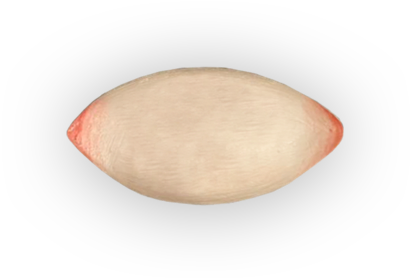
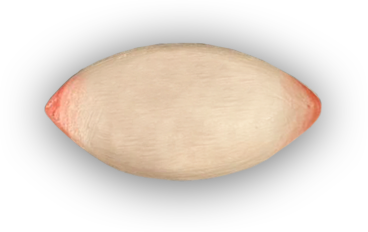
fixed eye tracking

Changed region(s): [[0.0897, 0.1207, 0.8967, 0.875]]

diff --git a/index.html b/index.html
@@ -18,63 +18,69 @@
 			if(document.querySelector('canvas')){
 				clearInterval(wait);
 				document.querySelector('canvas').addEventListener('touchmove',initiateInteractionMobile);
+				setTimeout(() => {
+					document.querySelectorAll('.fade')[0].classList.add('in');
+					document.querySelectorAll('.fade')[1].classList.add('in');
+					document.querySelectorAll('.fade')[2].classList.add('in');
+					document.querySelectorAll('.fade')[3].classList.add('in');
+				}, 1000);
 			}
 		}, 100);
 
 		function initiateInteraction(e){
-			console.log(e);
 			const xoffset = e.x /window.innerWidth * 100;
 			const yoffset = e.y /window.innerHeight * 100;
-			const minLeft = 32;
-			const maxLeft = 64;
-			const maxTop= 18;
-			const minTop= 3;
-			if((xoffset * maxLeft )/100 + minLeft < maxLeft){
-				document.querySelector('.pupil1').style.left = ((xoffset * maxLeft )/100 + minLeft) + '%';
-				document.querySelector('.pupil2').style.left = ((xoffset * maxLeft )/100 + minLeft) + '%';
-				// document.querySelector('.pupil').style.left = (xoffset * maxLeft )/100 + '%';
-			}
-			if((yoffset * maxTop )/100 + minTop < maxTop){
-				document.querySelector('.pupil1').style.top = ((yoffset * maxTop )/100 + minTop) + '%';
-				document.querySelector('.pupil2').style.top = ((yoffset * maxTop )/100 + minTop) + '%';
-			}
-
-			if(yoffset < 50){
-				document.querySelector('.raw-overlay').style.opacity =  1 - (yoffset/50) ;
-			}else{
-				document.querySelector('.raw-overlay').style.opacity = 0
-			}
+			makeInteraction(xoffset,yoffset)
 		}
 		function initiateInteractionMobile(e){
-			console.log(e);
 			const xoffset = e.touches[0].clientX /window.innerWidth * 100;
 			const yoffset = e.touches[0].clientY/window.innerHeight * 100;
-			const minLeft = 32;
-			const maxLeft = 64;
+			makeInteraction(xoffset,yoffset)
+		
+		}
+		function makeInteraction(X,Y){
+			const minLeft = 24;
+			const maxLeft = 50;
 			const maxTop= 18;
+			let finalX =  X;
+			let finalY = Y
+			if(Y > 64){
+				finalY = 64
+			}
+			if(Y < 36){
+				finalY = 36
+			}
+			if(X > 88){
+				finalX = 88
+			}
 			const minTop= 3;
-			if((xoffset * maxLeft )/100 + minLeft < maxLeft){
-				document.querySelector('.pupil1').style.left = ((xoffset * maxLeft )/100 + minLeft) + '%';
-				document.querySelector('.pupil2').style.left = ((xoffset * maxLeft )/100 + minLeft) + '%';
-				// document.querySelector('.pupil').style.left = (xoffset * maxLeft )/100 + '%';
+			document.querySelector('.pupil1').style.transform = "translate(" + finalX + "%," + (finalY - 36) + "%)";
+			document.querySelector('.pupil2').style.transform = "translate(" + finalX + "%," + (finalY - 36) + "%)";
+			// if((X * maxLeft )/100 + minLeft < maxLeft){
+			// 	document.querySelector('.pupil1').style.left = ((X * maxLeft )/100 + minLeft) + '%';
+			// 	document.querySelector('.pupil2').style.left = ((X * maxLeft )/100 + minLeft) + '%';
+			// 	// document.querySelector('.pupil').style.left = (xoffset * maxLeft )/100 + '%';
+			// }
+			// if((Y * maxTop )/100 + minTop < maxTop){
+			// 	document.querySelector('.pupil1').style.top = ((Y * maxTop )/100 + minTop) + '%';
+			// 	document.querySelector('.pupil2').style.top = ((Y * maxTop )/100 + minTop) + '%';
+			// }
+			if(Y < 5){
+				document.querySelector('.raw-overlay').style.opacity =  1 
 			}
-			if((yoffset * maxTop )/100 + minTop < maxTop){
-				document.querySelector('.pupil1').style.top = ((yoffset * maxTop )/100 + minTop) + '%';
-				document.querySelector('.pupil2').style.top = ((yoffset * maxTop )/100 + minTop) + '%';
-			}
-
-			if(yoffset < 50){
-				document.querySelector('.raw-overlay').style.opacity =  1 - (yoffset/50) ;
+			else if(Y < 50 & Y > 5){
+				document.querySelector('.raw-overlay').style.opacity =  1 - (Y/50) ;
 			}else{
 				document.querySelector('.raw-overlay').style.opacity = 0
 			}
 		}
 	</script>
 	<body>
-		<div class="rm-logo">
+		<div class="rm-footer-layer"></div>
+		<div class="rm-logo fade">
 			<img src="./assets/logo.png" alt="">
 		</div>
-		<div class="rm-home-navigation">
+		<div class="rm-home-navigation fade">
 			<ul class="linklist red">
 				<li class="linklist-item">
 					<a href="./about.html">
@@ -118,15 +124,15 @@
 				</li>
 			</ul>
 		</div>
-		<div class="raw-overlay"></div>
-		<div class="eyeballs">
+		<div class="raw-overlay fade"></div>
+		<div class="eyeballs fade">
 			<div class="lefteye">
 				<img src="./assets/Eye ball_2x.png" class="pupil1" alt="" srcset="">
-				<img src="./assets/eye-left.png" alt="" srcset="">
+				<img src="./assets/eye-right.png" alt="" srcset="">
 			</div>
 			<div class="righteye">
 				<img src="./assets/Eye ball_2x.png" class="pupil2" alt="" srcset="">
-				<img src="./assets/eye-right.png" alt="" srcset="">
+				<img src="./assets/eye-left.png" alt="" srcset="">
 			</div>
 		</div>
 		<script type="module">
@@ -156,7 +162,7 @@
 				camera = new THREE.PerspectiveCamera(45, window.innerWidth / window.innerHeight, .1, 2000 );
 				camera.position.z = .1;
 				scene = new THREE.Scene();
-				scene.background = new THREE.Color( 0xa0a0a0 );;
+				scene.background = new THREE.Color( 0x9eadba);;
 
 				// add light
 				const hlight = new THREE.AmbientLight (0xffffff,1.2);
@@ -233,8 +239,6 @@
 				controls.update();
 
 				renderer.render( scene, camera );
-
-				stats.update();
 
 			}
 

diff --git a/main.css b/main.css
@@ -100,7 +100,7 @@ a, button, input, select {
 }
 .righteye,
 .lefteye{
-	width: 100px;
+	width: 135px;
 	position: relative;
 	margin: 0 20px;
 }
@@ -108,9 +108,9 @@ a, button, input, select {
 .lefteye .pupil1{
 	width: 38px;
     position: absolute;
-    top: 10px;
-    left: 50%;
-	transform: translateX(-50%);
+    top: 20%;
+    left: 24%;
+	transform: translate(38%,0%);
 }
 .raw-overlay{
 	position: fixed;
@@ -265,4 +265,20 @@ a, button, input, select {
 	position: fixed;
 	bottom: 35px;
 	right: 75px;
+}
+.rm-footer-layer{
+	width: 100vw;
+	height: 106px;
+	position: fixed;
+	bottom: 0;
+	left: 0;
+	background-image: linear-gradient(to bottom, rgba(0, 0, 0, 0), rgba(0, 0, 0, 0.47));
+}
+
+.fade{
+	opacity: 0;
+	transition: .8s;
+}
+.fade.in{
+	opacity: 1;
 }
